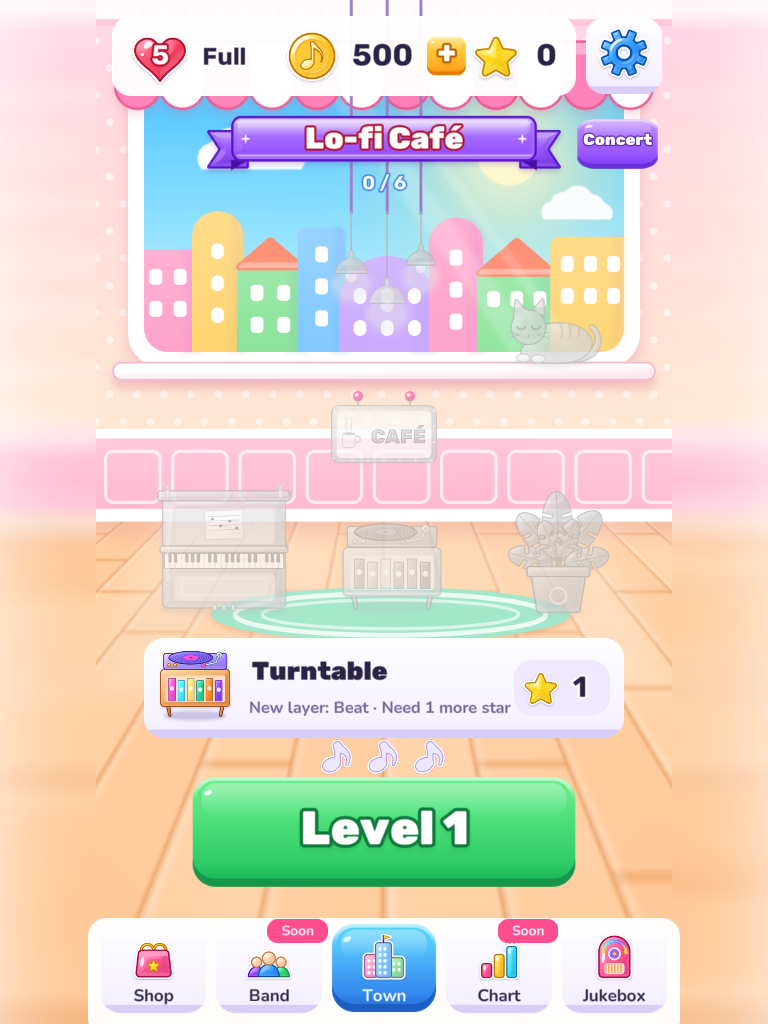
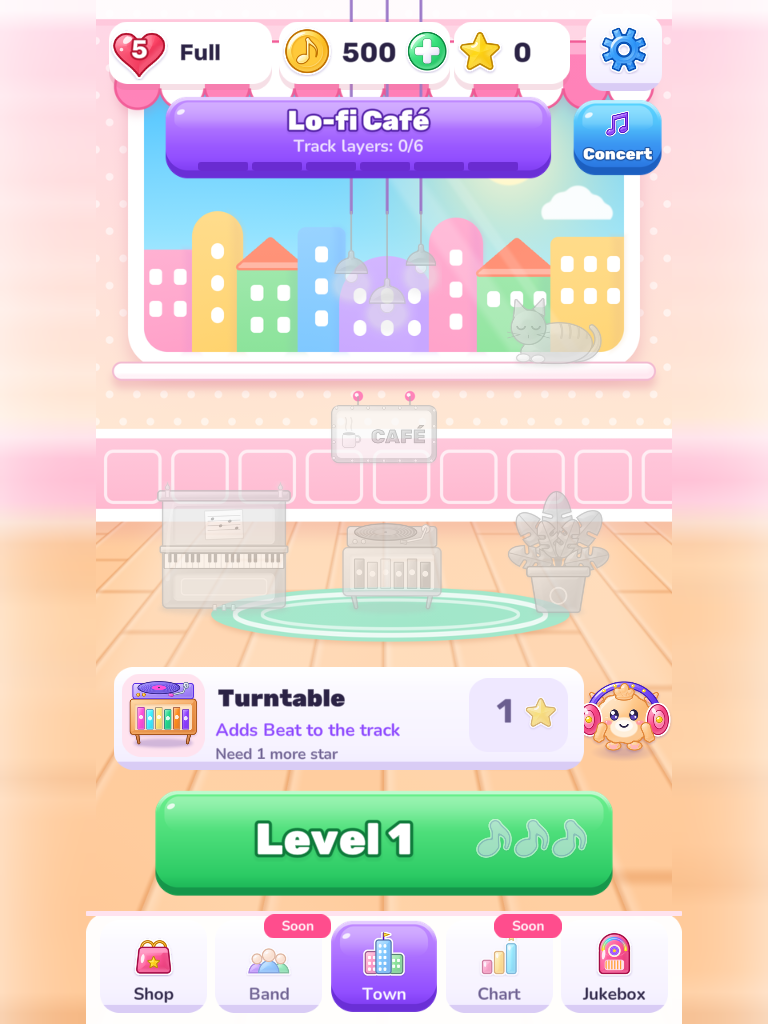
First live browser run: screenshots of the real game, docs updated (README, STATUS, plan v2)
Claude-Session: https://claude.ai/code/session_01YWvva44ykaN6af3dQeBd7c

Changed region(s): [[0.0938, 0.625, 0.9062, 1.0], [0.125, 0.0, 0.875, 0.1875]]

diff --git a/docs/plan-v2.md b/docs/plan-v2.md
@@ -39,6 +39,8 @@
 ## 1. Где стоит сборка
 
 <!-- СРЕЗ:НАЧАЛО — раздел обновляет оркестратор в конце сборки, порядок — в 1.5 -->
+**Обновлено 30.10.2026.** Ветка влита в основную `claude/brave-maxwell-j19fpr` (pull request №1), CI опубликовал веб-сборку на GitHub Pages; первый прогон в браузере (headless Chromium, 45 проверок) зелёный, три найденных дефекта исправлены. Остальной срез ниже снят 27.10.2026, 13:15 UTC (сборка закрыта).
+
 **Срез на 27.10.2026, 13:15 UTC (сборка закрыта).** Ветка `claude/brave-curie-dehte0`, последний коммит среза — `2d316fe`; CI на предыдущем коммите (#50) зелёный: тесты на двух ВМ, `gen_defold.py --check`, HTML5-сборка настоящим bob 1.13.1. Локальный прогон дерева перед закрытием: 1526 тестов зелёные на Lua 5.1 и на LuaJIT, `check_syntax.sh`, `check_refs.lua`, `gen_defold.py --check` и `levels.lua validate --strict` (100 из 100) чисты. Числа ниже верны на этот коммит; порядок обновления — в 1.5.
 
 ### 1.1 Чем и что проверено
@@ -49,7 +51,7 @@
 | Строгая заглушка Defold (`tests/client/*_defold_stub.lua`) | настоящие `.script` и `.gui_script` исполняются на модели API: имена, лимиты `game.project`, ресурсы, анимации, шрифты | не рисует; не знает реальных таймингов, порядка отрисовки, шейдеров, звука и касаний | поле, HUD, окна уровня, город, окна меты, заставка, оверлей, `app.script`, `audio.script`; всё вместе в одной сессии (`tests/client/session_*`) |
 | CI-сборка HTML5 реальным bob 1.13.1 | формат всех Defold-файлов, ссылки на ресурсы, компиляция Lua, бандл | запуск | зелёная на последних запусках; красные запуски за сборку — срезы посреди чужой правки (недописанный тест) и один ненадёжный замер памяти на LuaJIT (исправлен) |
 | Аудиты и ревью (агенты) | код ядра против спецификации v3.1: 4 аудита, около 2 700 мутантов | независимая реализация | ядро: сверено 591 утверждение; экран уровня и мета: по два независимых ревьюера (API Defold и соответствие документам), найденное исправлено; статический линтер ссылок `tools/check_refs.lua` |
-| Запуск в браузере (Chromium, `tools/qa/web_screens.mjs`) | живой Defold, звук, касания | | по датам `docs/media` — 29.09.2026, на фундаменте клиента (заставка, город, оверлей, звуковой контракт) |
+| Запуск в браузере (Chromium, `tools/qa/web_screens.mjs`) | живой Defold, звук, касания | видеокарта и кадры телефона (программный GL) | 30.10.2026: 45 проверок зелёные на debug-сборке, 25 снимков в `docs/media` |
 | Устройство (Android, iOS, мобильный браузер) | | | ни разу |
 | Живые игроки | | | ни разу |
 
@@ -59,8 +61,8 @@
 |---|---|---|
 | Ядро `core/` (5,2 тыс. строк) | правила v3.1 целиком: тики, 4 спецфишки и 10 комбо, Пташка, 8 видов препятствий, бустеры, перемешивание, концерт, реплеи и хеш | код и тесты писал один коллектив; клон состояния — почти половина времени ботов |
 | Мета `meta/` | монеты, звёзды, жизни, бустеры, серия, 5 районов (38 задач, 124★), сохранение с версией и суммой | баланс — расчёт, на людях не проверен |
-| Клиент: город и окна | сцена района, листание, старт, магазин, жизни, настройки, джукбокс, сундуки, концерт района | после 29.09 в браузере не открывался |
-| Клиент: уровень | поле, анимации, 10 комбо-эффектов, пулы, HUD, окна паузы, ходов, поражения, итогов, рантайм обучения | порядок отрисовки по z, `particlefx.set_constant` (tint), число компонентов частиц, порядок ввода `board.script` и `level.gui_script`, длинные русские подписи — не проверены |
+| Клиент: город и окна | сцена района, листание, старт, магазин, жизни, настройки, джукбокс, сундуки, концерт района | 30.10 открыт и пройден в браузере (QA); на устройстве нет |
+| Клиент: уровень | поле, анимации, 10 комбо-эффектов, пулы, HUD, окна паузы, ходов, поражения, итогов, рантайм обучения | 30.10 пройдены победа, концерт, итоги, проигрыш в браузере; на устройстве нет; комбо-эффекты глазами смотреть по одному |
 | Уровни | 100 файлов: easy 52, medium 27, hard 16, super hard 5; 126★; `tools/levels.lua validate --strict` — 100 из 100 чисто; таблица — `docs/levels/README.md` | `moves` 41–100 подтверждены подбором ботом, 37-й поднят до 32; у 1–40 оставлены прежние 20–30 (подбор дал бы 6–19 у 23 уровней, решение продюсера, `decisions.md` 8.4); бот сильнее человека |
 | Обучение | 18 сценариев в `content/tutorials.json` (уровни 1, 2, 4, 6, 8–13, 15, 16, 22, 30, 40, 50, 65, 90); каждый шаг проигран в ядре тестами | живых проходов обучения не было; «по желанию» (41, 60, 66, 95, 100) не включены |
 | Арт | 201 PNG (8,5 МБ), нарисованы кодом, `tools/art` | заглушка |
@@ -71,8 +73,8 @@
 
 ### 1.3 Чего не было ни разу
 
-- Экран уровня и окна меты не запускались в настоящем Defold ни в браузере, ни на устройстве: только заглушка и сборка bob.
-- Только чтением кода и заглушкой проверены: порядок отрисовки спрайтов по z, `particlefx.set_constant` (tint), число компонентов частиц, порядок ввода между `board.script` и `level.gui_script`, размеры русских подписей; шейдеры компилирует bob, а как они выглядят, никто не видел.
+- Экран уровня и окна меты на устройстве не запускались. В браузере (headless Chromium, программный GL) они пройдены 30.10.2026.
+- На устройстве и на настоящей видеокарте не смотрели: порядок отрисовки спрайтов по z, цвет частиц (`particlefx.set_constant`), число компонентов частиц, размеры русских подписей на узких экранах. В headless-браузере эффекты видны на снимках, ошибок движка в консоли нет.
 - Нет ни одного замера кадра, памяти и батареи на телефоне. «Кадр доски ≈ 0,3 мс», «185 узлов GUI из 1024» — измерения с заглушки и CI-машины.
 - Звук проверен измерениями (`docs/media/audio_report.md`); автозапуск звука в iOS Safari и Chrome Android не проверялся.
 - Баланс (8350 монет к 100-му уровню, 126★) — расчёт; живых игроков не было.
@@ -80,7 +82,7 @@
 
 ### 1.4 Что это значит для плана
 
-- Первая работа — M1: первый живой запуск. До него оценки разделов 3–5 содержат риск, что экран уровня потребует недель правок; закладываем буфер 8–12 ч-д.
+- Первая работа — M1: живой запуск. В браузере он сделан 30.10.2026 (экран уровня прошёл с тремя мелкими правками); остаётся устройство: замер кадра и памяти на слабом Android, касания на телефоне, звук на слух. Буфер на правки по итогам устройства — 4–8 ч-д.
 - `moves` остаются оценками до софт-лонча: окончательно их настроят данные игроков (5.6).
 - Любое число из 1.1–1.2 перед решением перепроверять по 1.5. `docs/STATUS.md` переписан 27.10.2026 по закрытии сборки и ссылается на этот раздел; при обновлении среза обновлять и его.
 
@@ -642,7 +644,7 @@ gh run list --branch claude/brave-curie-dehte0 --limit 5   # CI: тесты и H
 
 | № | Риск | Вер. / влияние | Что делаем | Кто | Когда |
 |---|---|---|---|---|---|
-| R1 | Экран уровня и окна меты ни разу не запускались в Defold (1.3) | В / В | M1: `web_screens.mjs` + `autoplay`, буфер 8–12 ч-д | И | Н1–2 |
+| R1 | Экран уровня и окна меты не проверены на устройстве (1.3); в браузере пройдены 30.10 | С / В | M1: замер на телефоне, `web_screens.mjs` + `autoplay`, буфер 4–8 ч-д | И | Н1–2 |
 | R2 | Кадр на слабых Android: узлы GUI, частицы, шрифты с обводкой, 11 стемов | С / В | замеры 4.6, lite-режим, пороги 5.2 | И | Н2–4 |
 | R3 | Веб 19,5 МБ у порога CrazyGames 20 МБ | В / С | 4.5, 4.8, контроль размера в CI | И | Н3–5 |
 | R4 | Корейский шрифт: память или задержки | С / С | спайк K1 (5.4) | И | Н3–4 |

diff --git a/docs/STATUS.md b/docs/STATUS.md
@@ -19,7 +19,8 @@
 
 ## Чем проверено и что не проверено
 - 1526 тестов зелёные на Lua 5.1 и на LuaJIT; `check_syntax.sh`, `check_refs.lua`, `gen_defold.py --check`, `levels.lua validate --strict` чисты. Сборку HTML5 проверяет CI настоящим `bob`.
-- **Ни разу не запускалось в живом Defold, в браузере и на устройстве:** экран уровня, HUD, окна меты и обучение (последний запуск в браузере — 29.09.2026, фундамент клиента). Только заглушка движка и сборка `bob`. Прежде всего не проверены порядок отрисовки по z у эффектов, `particlefx.set_constant` (tint), реальное число компонентов частиц, порядок ввода между `board.script` и `level.gui_script`, длинные русские подписи, обрезка появления фишек у явных спавнеров внутри поля (уровни 36, 37, 39, 51, 62, 70, 72, 75–80, 82, 85, 88, 92, 94, 96, 98).
+- **Запускалось в браузере 30.10.2026** (headless Chromium, debug-сборка, `tools/qa/web_screens.mjs`): 45 проверок зелёные — первый запуск сразу в уровень 1 с обучением, победа, финальный концерт, итоги, «Следующий уровень», проигрыш, все окна, сохранение и повтор при сбое, язык, звуковой контракт; 25 снимков в `docs/media`. Первый запуск нашёл три дефекта (нулевой масштаб фишки при `go.set_scale`, очистка эффектов из чужой коллекции в QA-команде, слишком ранняя проверка стема), все исправлены.
+- **Не запускалось на устройстве** (Android, iOS, мобильный браузер) и у живых игроков; кадр, память и батарея на слабых телефонах не измерены; звук проверен измерениями, а не на слух; смотреть глазами: длинные русские подписи на узких экранах и обрезку появления фишек у явных спавнеров внутри поля (уровни 36, 37, 39, 51, 62, 70, 72, 75–80, 82, 85, 88, 92, 94, 96, 98).
 - `moves` подбирал жадный бот, который сильнее живого новичка: числа — оценки до данных игроков. Ходы уровней 1–40 оставлены прежними (подбор дал бы 6–19 ходов у 23 уровней): решение продюсера, `decisions.md`, 8.4.
 - Покупок и рекламы нет: сервисы — тестовые реализации (в вебе «недоступно»).
 - Мелочи: правило 0.7.4 (сравнение строк в логике) нарушено в `input.lua` и `moves.lua` на внутренних метках; 39 ключей i18n без явного упоминания (часть собирается конкатенацией).

diff --git a/README.md b/README.md
@@ -49,7 +49,7 @@ python3 -m http.server 8791 -d dist/GLOW     # открыть http://localhost:8
 
 `VARIANT=release` — сборка для публикации (по умолчанию). Скрипт сначала запускает `tools/gen_defold.py` (без python3 он останавливается; `SKIP_GEN=1` — собрать без генератора, если сгенерированное точно свежее), затем bob; результат — `dist/GLOW/index.html`. В debug-сборке лежит файл `DEBUG_BUILD_DO_NOT_PUBLISH`: её нельзя выкладывать на порталы.
 
-Локально `bob` не обязателен: сборку проверяет CI, а артефакт (`glow-web`) можно скачать со страницы запуска. Экран уровня, HUD и окна меты ни разу не запускались в живом Defold: первый запуск в браузере со `tools/qa/web_screens.mjs` — следующий шаг (`docs/plan-v2.md`, веха M1).
+Локально `bob` не обязателен: сборку проверяет CI, а артефакт (`glow-web`) можно скачать со страницы запуска. 30.10.2026 игра собрана локально (JDK 25 и `bob.jar`) и прогнана `tools/qa/web_screens.mjs` в headless Chromium: 45 проверок зелёные, снимки лежат в `docs/media`. На устройстве и на живых игроках она ещё не проверялась (`docs/plan-v2.md`, веха M1).
 
 **Отладочная сборка** (`VARIANT=debug`):
 - клавиши: F1 — город, F2 — уровень, F3 — заставка, F5 — +1000 монет, F6 — сменить язык, F9 — сбросить сохранение;
